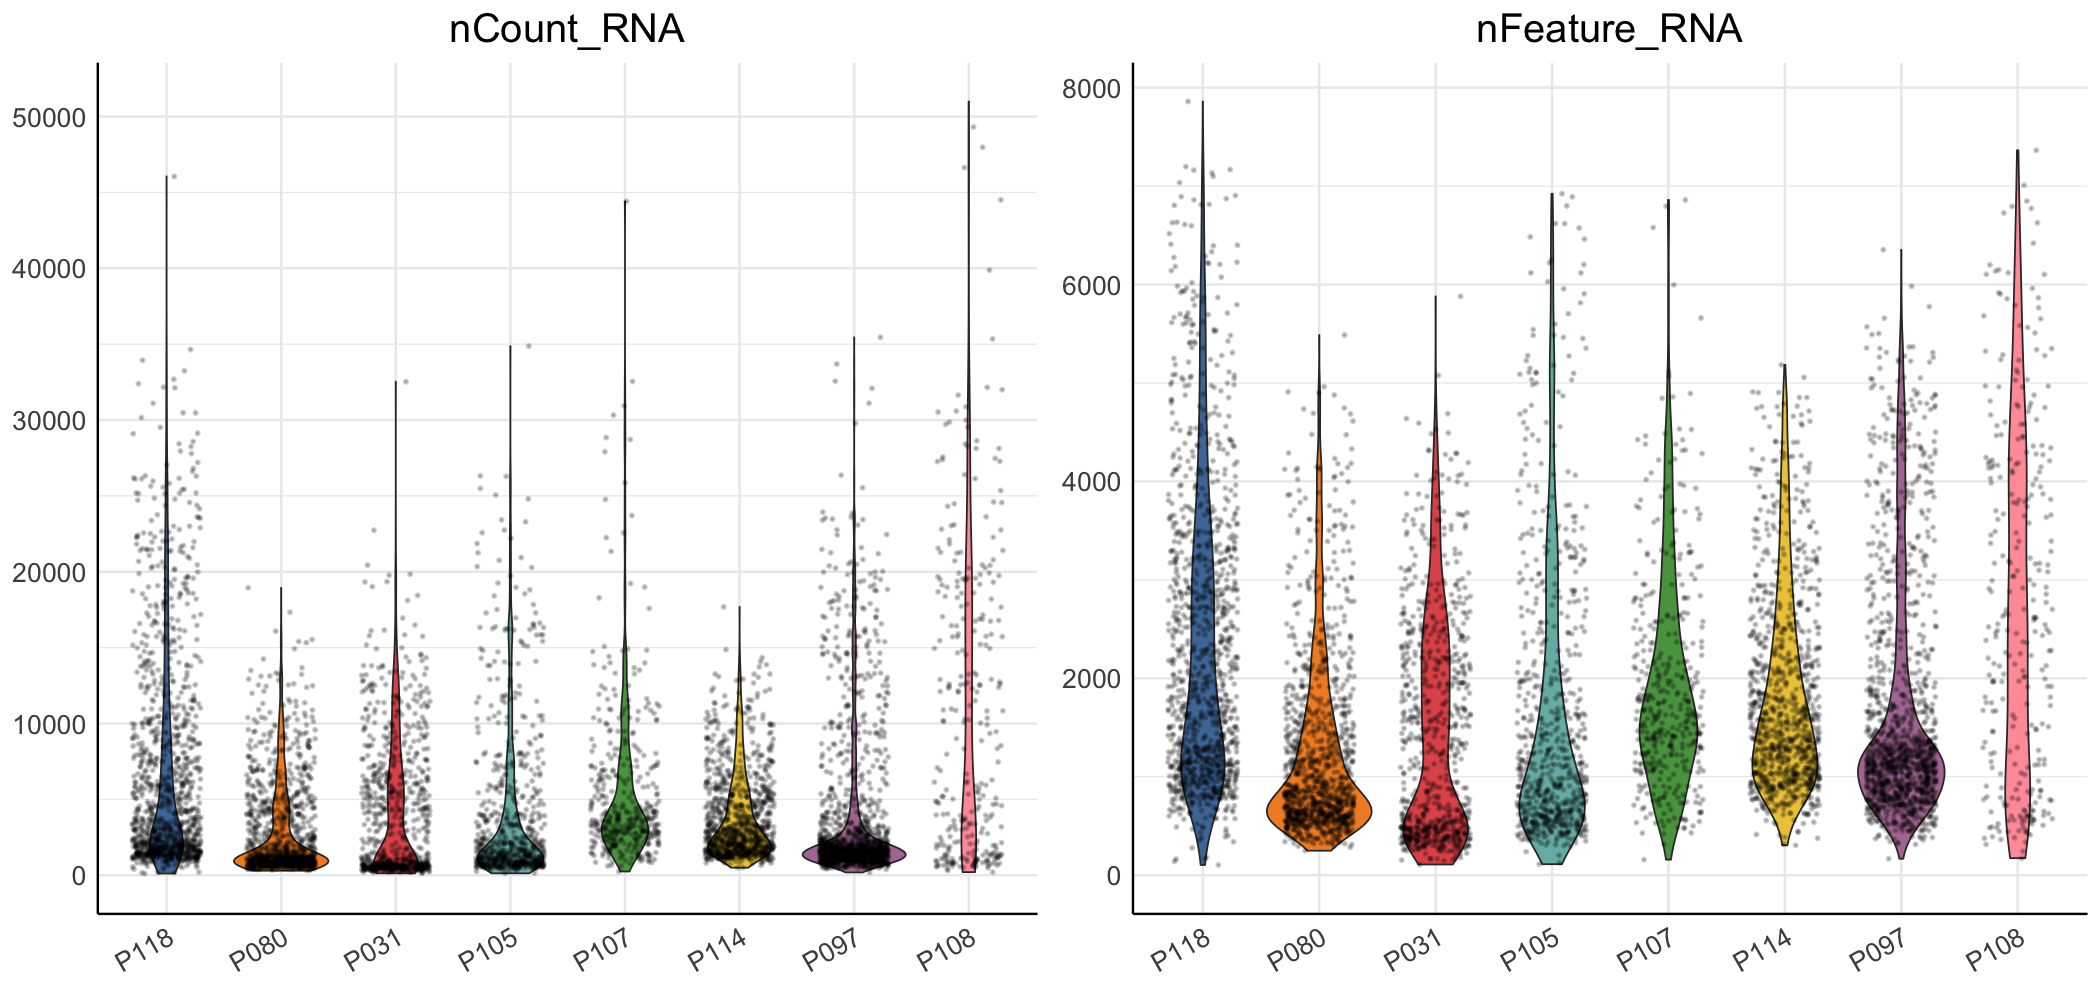
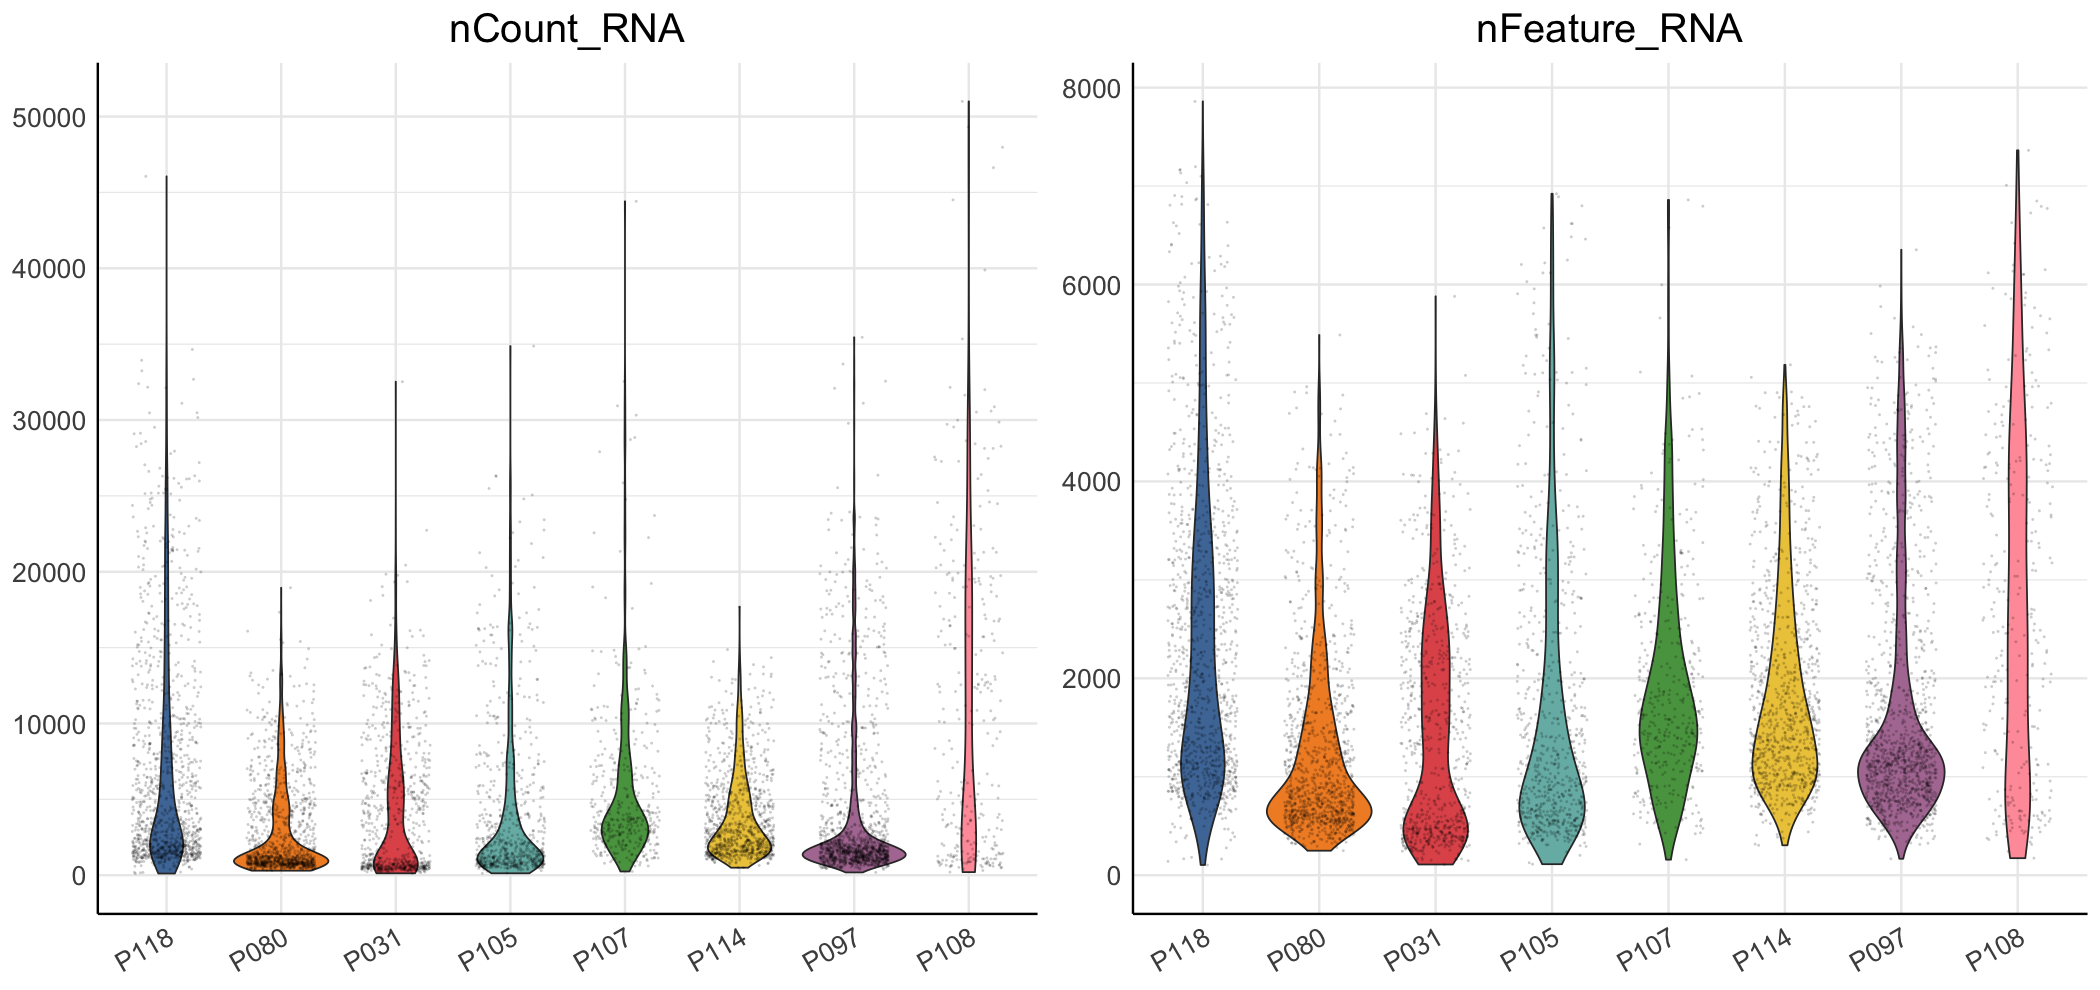
Improve figures

diff --git a/src/manuscript/md_files/Figure_S1.md b/src/manuscript/md_files/Figure_S1.md
@@ -1,6 +1,6 @@
 Supplemental Figure 1
 ================
-11/13/24
+11/14/24
 
 ### Load data and libraries
 
@@ -51,7 +51,7 @@ feature <-  c("nCount_RNA", "nFeature_RNA")
 A <-  map(feature, ~violin.fun(DAT, feature=.x, 
                                fill="orig.ident", 
                                col_pal=friendly_cols, 
-                               n=1, txt_size=8, dot_size=.02))
+                               n=1, txt_size=8, dot_size=.5))
 (A <- plot_grid(plotlist=A, nrow = 1, byrow = F))
 ```
 
@@ -83,7 +83,7 @@ C <- DATA %>%
                  #annot_col = "#dbd9d9",
                  annot_line = .1,
                  img_alpha = 0,
-                 point_size = .7) + 
+                 point_size = .6) + 
   theme(legend.box.margin=margin(0,30,-0,-30)) # moves the legend)
   
 C
@@ -123,7 +123,7 @@ DefaultAssay(DATA) <- "RNA"
                    annot_line = .2,
                    img_alpha = 0)  + 
    guides(fill = guide_legend(keyheight = .7, keywidth = .7)) +
-   theme(legend.box.margin=margin(0,25,-0,-20), # moves the legend)
+   theme(legend.box.margin=margin(0,20,-0,-30), # moves the legend)
          legend.title = element_blank()) )# moves the legend)
 ```
 
@@ -139,9 +139,9 @@ data-fig-align="center" />
 #############################
 # COMBINE ALL FIGURE PANELS #
 #############################
-# dev.new(width=7, height=8, noRStudioGD = TRUE)
+# dev.new(width=7, height=7, noRStudioGD = TRUE)
 A_B <- plot_grid(A, NA, rel_widths = c(1,.4), labels = c('a', 'b'))
-Figure_S1 <- plot_grid( A_B, NA, C, NA, D, ncol=1, rel_heights = c(1,.3,.9,.2,.9), labels = c(NA, NA, 'c', NA, 'd')) 
+Figure_S1 <- plot_grid( A_B, NA, C, NA, D, NA, ncol=1, rel_heights = c(.8,.15,.9,.25,.9,.1), labels = c(NA, 'c', NA, NA, 'd')) 
 ggsave("./Figures/Figure-3.pdf", Figure_S1, width = 7, height = 8, bg = "white", dpi = 1000)
 
 Figure_S1
